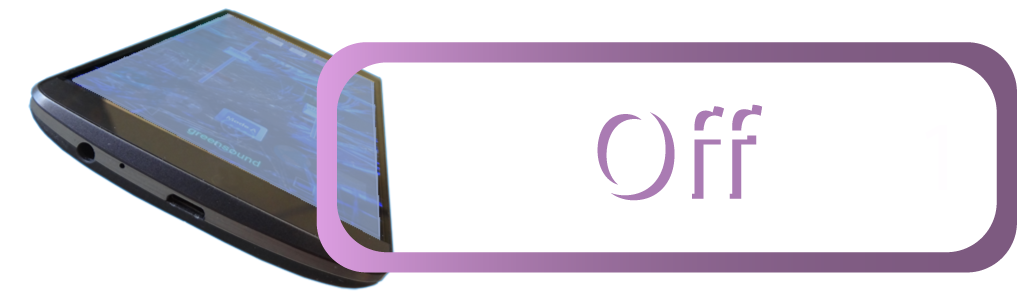
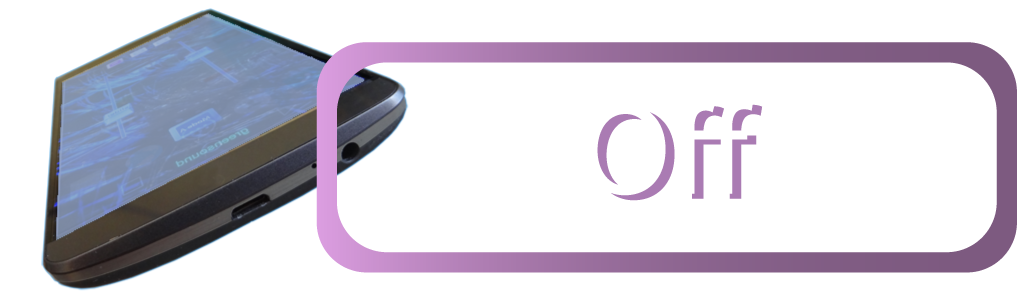
new interface and english language by default if outside of France

Changed region(s): [[0.0305, 0.03, 0.4267, 0.99]]

diff --git a/ui/failnetwork.qml b/ui/failnetwork.qml
@@ -17,13 +17,13 @@ Rectangle {
     property string urlen: "More information:<br /><b>" + url + "</b>"
     property string urlsp: "Para más información:<br /><b>" + url + "</b>"
 
-//    property string failnet: 	(fr ? failnetfr : failneten);
-//    property string urlmsg: 	(fr ? urlfr : urlen);
-//    property string quit: 		(fr ? "Quitter" : "Quit");
+    property string failnet: 	(fr ? failnetfr : failneten);
+    property string urlmsg: 	(fr ? urlfr : urlen);
+    property string quit: 		(fr ? "Quitter" : "Quit");
 
-    property string failnet: 	(failnetsp);
-    property string urlmsg: 	(urlsp);
-    property string quit: 		("Dejar");
+//    property string failnet: 	(failnetsp);
+//    property string urlmsg: 	(urlsp);
+//    property string quit: 		("Dejar");
 
 	width:  mobile ? Screen.desktopAvailableWidth : 420;
 	height: mobile ? Screen.desktopAvailableHeight : 600;

diff --git a/ui/GSinit.qml b/ui/GSinit.qml
@@ -6,7 +6,7 @@ Image {
 
     property bool mobile: (Qt.platform.os == "android" || Qt.platform.os == "ios")
     property bool fr: (Qt.locale().name.substring(0,2) == "fr");
-    property string waitmsg: (fr ? "Patentiez..." : "Wait while loading");
+    property string waitmsg: (fr ? "Patientez..." : "Wait while loading");
     
 	width:  mobile ? Screen.desktopAvailableWidth : 420;
 	height: mobile ? Screen.desktopAvailableHeight : 600;

diff --git a/ui/GSplay.qml b/ui/GSplay.qml
@@ -57,7 +57,7 @@ Image {
         anchors.horizontalCenter: gs.horizontalCenter
         anchors.bottom: gs.bottom
         anchors.bottomMargin: 16 * pixelRatio()
-		text: "greensound"
+		text: "greensounds"
 		font.family: "Futura"
 		font.pointSize: 16
 		color: "#00ff7a"
